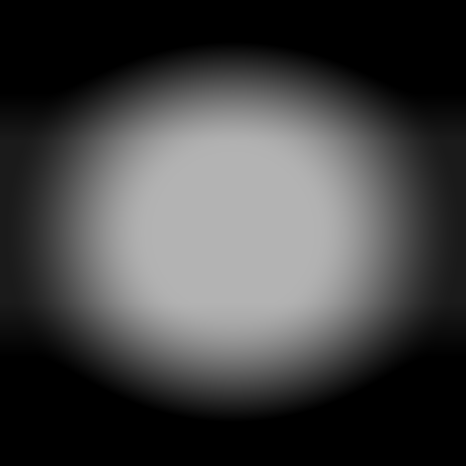
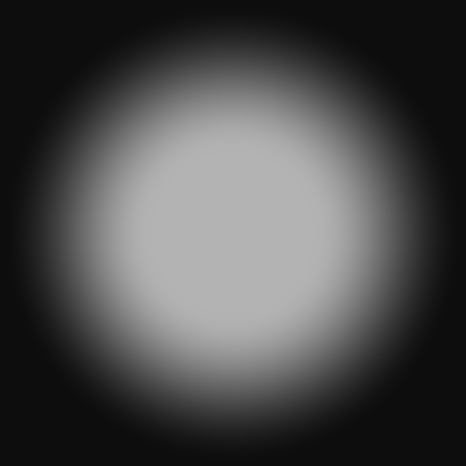
Make vignettes even on all sides, shrink screensaver clock
The bottom bands made the lower part of the cover noticeably darker.
Both vignettes are now purely radial. Screensaver clock is 32 instead of 34.

Changed region(s): [[0.1803, 0.7511, 0.8112, 0.9614], [0.2103, 0.03, 0.7811, 0.2103]]

diff --git a/page/control/index.js b/page/control/index.js
@@ -218,7 +218,7 @@ Page(
     buildSaver(top) {
       this.background(top, "vignette_light.png");
       const tapLayer = this.lastWidget;
-      this.saverClock = text(170, top + 10, 140, 40, "", { size: 34, color: MINT });
+      this.saverClock = text(170, top + 10, 140, 40, "", { size: 32, color: MINT });
       this.saverTitle = text(SAVER_TEXT_X, top + 342, W - 2 * SAVER_TEXT_X, 60, "", { size: SAVER_TITLE_SIZE });
       this.saverArtist = text(SAVER_TEXT_X, top + 404, W - 2 * SAVER_TEXT_X, 44, "", {
         size: SAVER_ARTIST_SIZE,

diff --git a/tools/make_assets.py b/tools/make_assets.py
@@ -126,7 +126,7 @@ def smooth(t):
 
 
 def render_vignette(size):
-    """Darkens the cover: base dim + radial edge falloff + top/bottom bands."""
+    """Darkens the cover: base dim + radial edge falloff, the same on every side."""
     rows = []
     c = (size - 1) / 2
     for y in range(size):
@@ -135,9 +135,7 @@ def render_vignette(size):
             r = math.hypot(x - c, y - c) / c
             t = min(max((r - 0.35) / 0.65, 0.0), 1.0)
             edge = t * t * (3 - 2 * t)
-            v = y / (size - 1)
-            band = max(0.0, 0.30 - v) / 0.30 * 0.30 + max(0.0, v - 0.65) / 0.35 * 0.30
-            a = min(1.0, 0.30 + 0.60 * edge + band)
+            a = min(1.0, 0.30 + 0.65 * edge)
             row += [0, 0, 0, round(255 * a)]
         rows.append(row)
     write_png(os.path.join(OUT, "vignette.png"), size, size, rows)
@@ -230,9 +228,9 @@ def main():
     render_layers("thumb_empty", 96, [(rect(0, 0, 1, 1, 0.06), (60, 60, 60)), (note, (160, 160, 160))])
     render_icon("home", 48, home)
     render_vignette(466)
-    # Screensaver: cover stays clear, only edges and the text area darken
+    # Screensaver: cover stays clear in the middle, edges darken evenly
     render_alpha("vignette_light", 466,
-                 lambda r, v: 0.12 + 0.72 * smooth((r - 0.45) / 0.55) + 0.5 * smooth((v - 0.6) / 0.32))
+                 lambda r, v: 0.12 + 0.78 * smooth((r - 0.45) / 0.55))
 
 
 if __name__ == "__main__":
